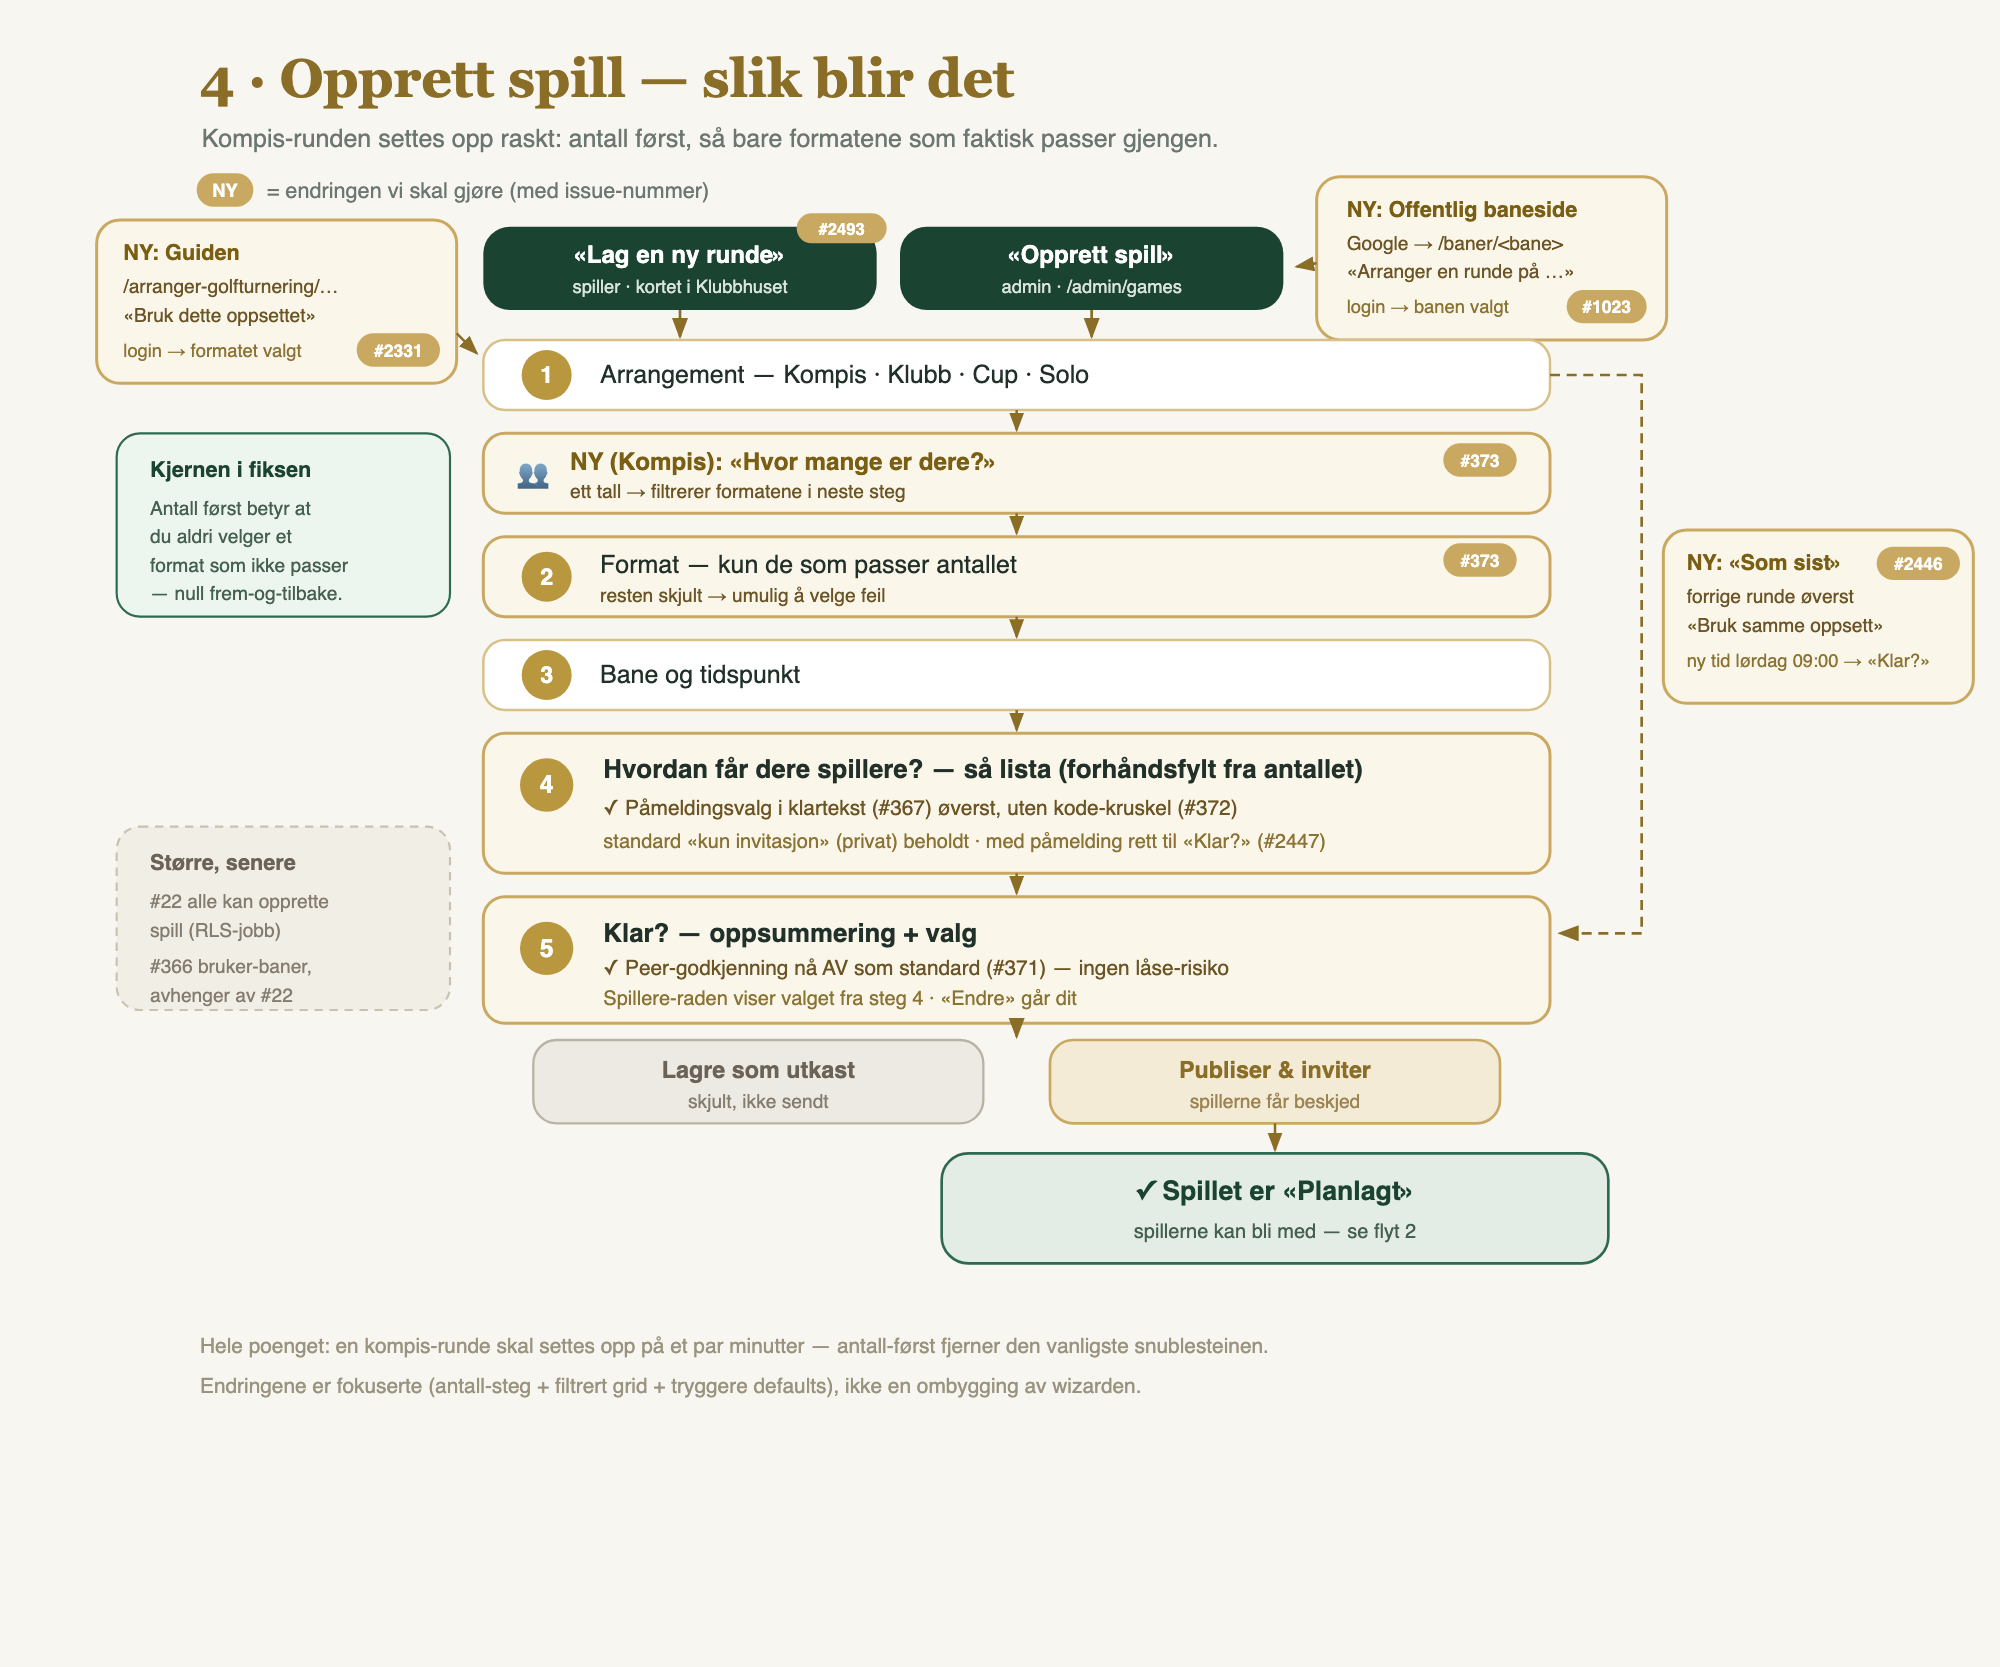
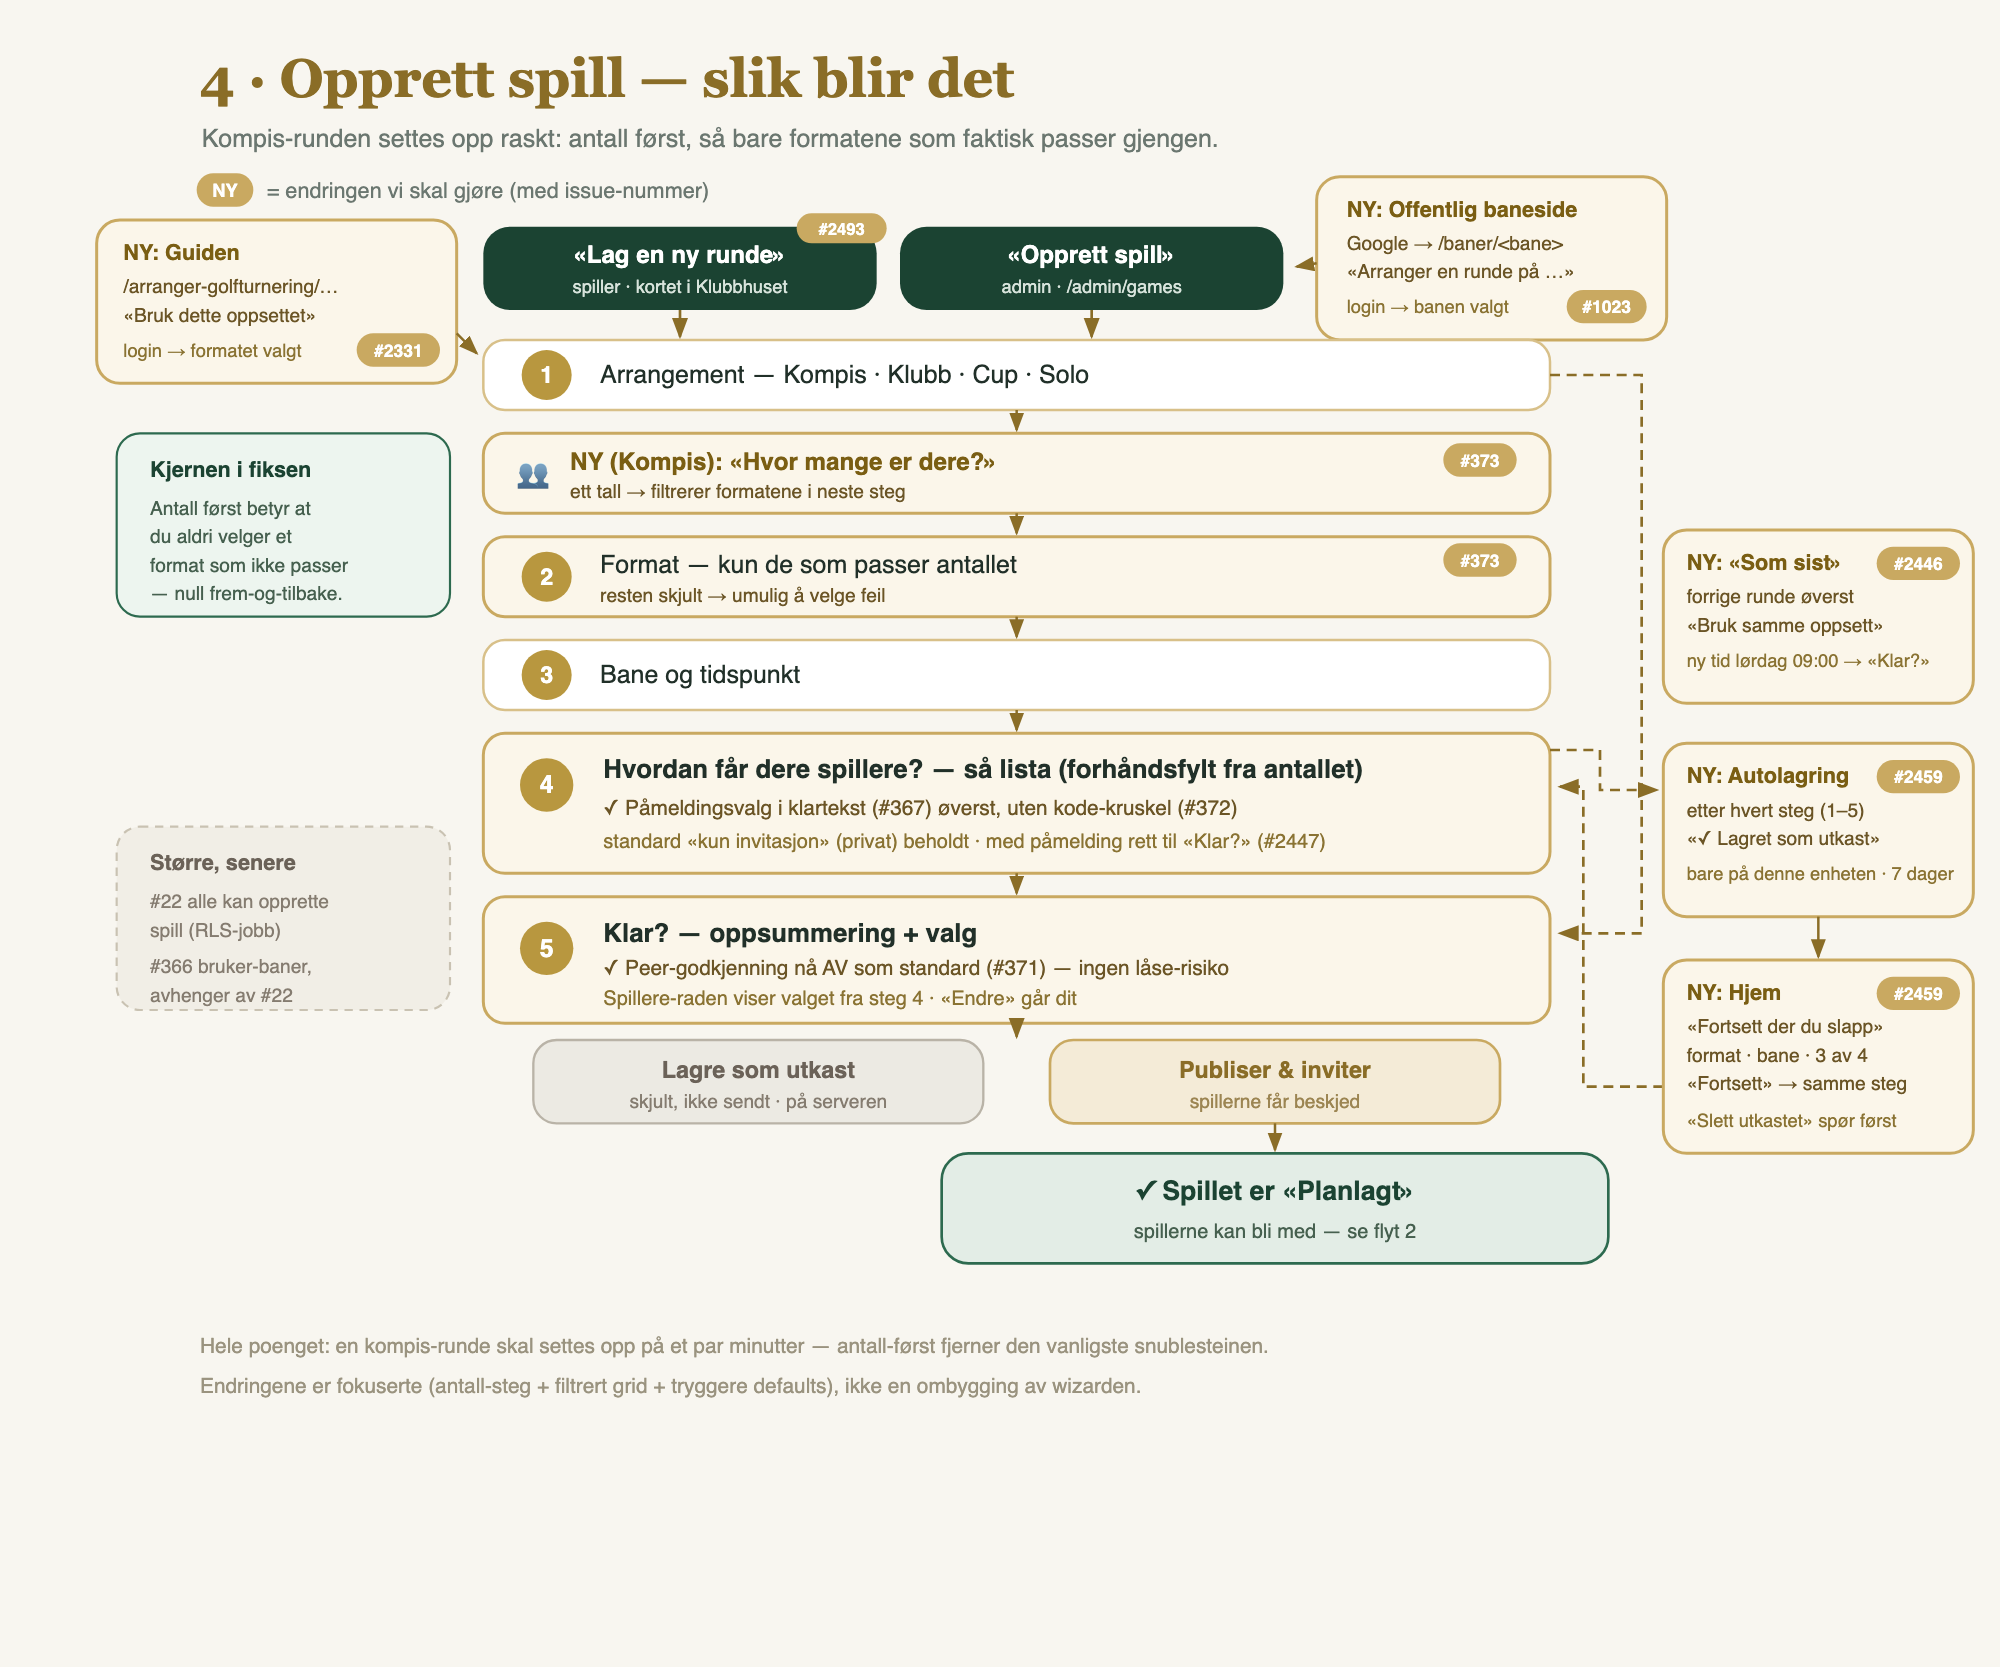
docs(flows): the new-game draft saves itself and Home resumes it
Flow 4 (future) shows the autosave on every step and the Home entry;
user-flows.md gets the Home node and an autosave paragraph.

Refs #2459

Changed region(s): [[0.775, 0.4367, 0.992, 0.5303], [0.837, 0.5615, 0.992, 0.6863], [0.31, 0.6551, 0.434, 0.6863]]

diff --git a/docs/user-flows.md b/docs/user-flows.md
@@ -43,6 +43,8 @@ flowchart TD
   Prof -- ja --> Home["/ (Hjem)"]
   CP --> Home
   Home --> PH{har spill?}
+  Home --> Resume["Fortsett der du slapp<br/>(halvferdig oppsett på denne enheten, #2459)"]
+  Resume -- Fortsett --> Wiz["Veiviseren på steget du slapp"]
   PH -- ja --> List["Mine spill / Avsluttede spill"]
   PH -- nei --> Disc["Finn turneringer<br/>(åpne spill + dine klubbers spill)"]
   Nav["Bunn-nav (alle innloggede):<br/>Hjem · Innboks · Klubbhuset · Profil"]
@@ -246,6 +248,8 @@ flowchart LR
 | 3 Bane og tidspunkt | `BasicsSection` | Bane + tee-boks (fra `getNewGameFormData`), tee-off (Oslo-tz), auto-navn. «Opprett ny bane» går til `/opprett-bane?next=…` med veien tilbake til steg 3. Der viser «Finnes banen alt?» opptil fem baner som ligner navnet du skriver (`similar_courses`, #2485). «Bruk denne», eller en bane du lagrer der, kommer tilbake valgt: når utkastet er hentet, velger veiviseren banen fra `?bane=` over utkastets og fjerner parameteren fra adressen (`useCourseFromUrl`). `banevalg=1` står igjen, så «Som sist» holder seg borte fra steg 1 også etter en reload (#2446). Format og spillere står. |
 | 4 Spillere | `PlayerSourceChoice` + `PlayerPickerGrid` + `PlayerTray`, så `TeamsAssignmentSection` | Øverst, under tittelen «Hvordan får dere spillere?», står påmeldingsvalget (#2447, #367): «Jeg velger dem nå» (standard, privat), «De ber om plass, jeg godkjenner» (med «Slipp venner direkte inn», #369) og «Åpen påmelding». Velges påmelding, er lista valgfri og «Neste: Klar?» går rett til steg 5, også i best ball med deg alene. Klubb-turneringen har ikke valget (medlemskap er invitasjonen, #643) og beholder tittelen «Hvem skal spille?». Under valget: vennene (eller klubbmedlemmene) som kort, du selv først og så sist spilt først (`orderPickerPlayers`, #2321). Brettet nederst teller mot målet («3 av 4 · én til»). Lagformater og singles matchplay fordeler lag, sider og flights på en egen skjerm («Neste: lagene»); solo-formatene har tee per spiller på velgeren. Gjest legges til fra «+ Gjest»; «✉ E-post» samler adresser som inviteres når spillet publiseres (`sendPublishInvites`). Steget kan stå tomt hvis påmelding er valgt øverst på steget, og i en klubb-turnering med individuell påmelding (#2433). |
 | 5 Klar? | `ReadyStep` | Et lite invitasjonskort med spillnavnet som felt midt i kortet, og en sjekkliste (Bane, Format, Tee-off, Spillere) med status og «Endre» som hopper til steget valget bor på (#2282). Spillere-raden sier hvordan spillerne kommer («Privat», «Du godkjenner påmeldinger», «Åpen påmelding»; ikke i en klubb-turnering), og «Endre» går til steg 4 der valget bor (#2447). Under lista: «Vis avanserte innstillinger». Brettet nederst: «Publiser og del invitasjonen» (`createAndPublishGame`, status `scheduled` + invitasjoner) eller «Lagre som utkast» (`createGameDraft`, status `draft`). Publisering varsler alle på lista én gang (`notifyRosterInvites`); en tom klubb-turnering varsler ingen. «Lagre som utkast» varsler ingen (#2445). En venn uten fullført profil stopper ikke publiseringen. Runden starter når profilen er på plass, og spillerraden på steg 5 sier «N venter på profil» (#2441). Er alle valgte spillere gjester, blir spillerraden rød og publiseringen stoppes alltid, uansett påmeldingsmåte; serveren avviser også (`guestOnlyRoster`, #2570). Redigering av en planlagt runde stoppes ikke. |
+
+**Autolagring (#2459).** Veiviseren lagrer oppsettet av seg selv etter hvert steg, i `localStorage` på denne enheten, per bruker og per flate (`/opprett-spill`, `/admin/games/new`), i 7 døgn (`wizardStatePersistence`). Det er ingen `games`-rad, ingen invitasjon og ingen synlighet for spillerne: «Lagre som utkast» på «Klar?» er fortsatt veien til et serverutkast. Merket «✓ Lagret som utkast» under stegtittelen står bare når siste skriving gikk. Fra steg 2 og utover står oppsettet øverst på Hjem under «Fortsett der du slapp» (`ResumeDraftCard`): format, bane, valgte spillere mot antallet fra steg 2 og «Steg X av 5». «Fortsett» åpner den lagrede lenka (steg, `skjerm=lag` og kontekst som `?klubb=`), «Slett utkastet» går til `/opprett-spill/slett-utkast`. Publisering, «Lagre som utkast», sletting, utlogging, eierbytte og kontosletting fjerner det.
 
 Publiserer en arrangør som ikke er admin uten å stå på lista selv, lander hen på arrangørvisningen på `/games/[id]` i stedet for ikke-funnet-siden (#2202).
 
